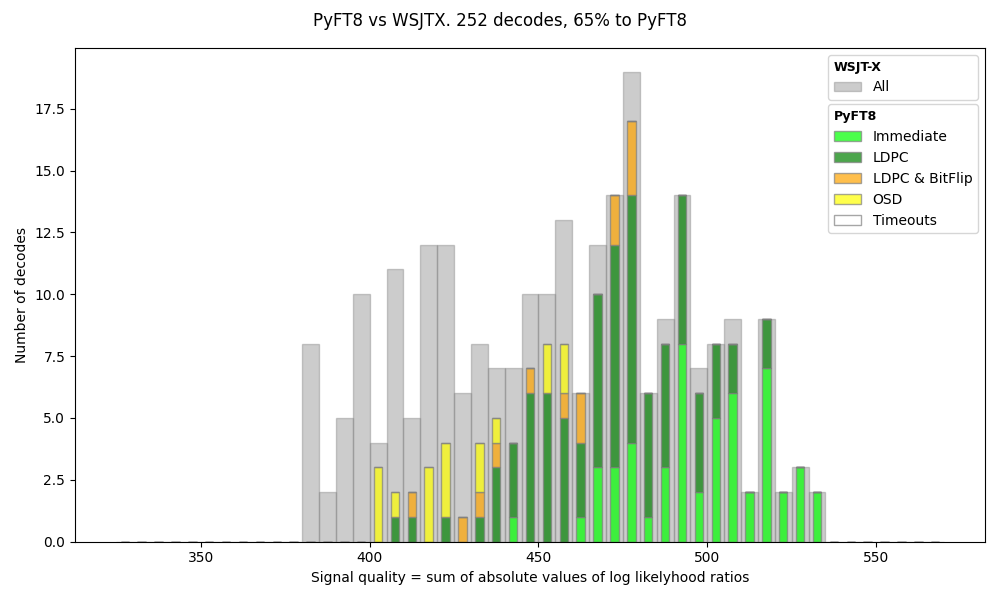
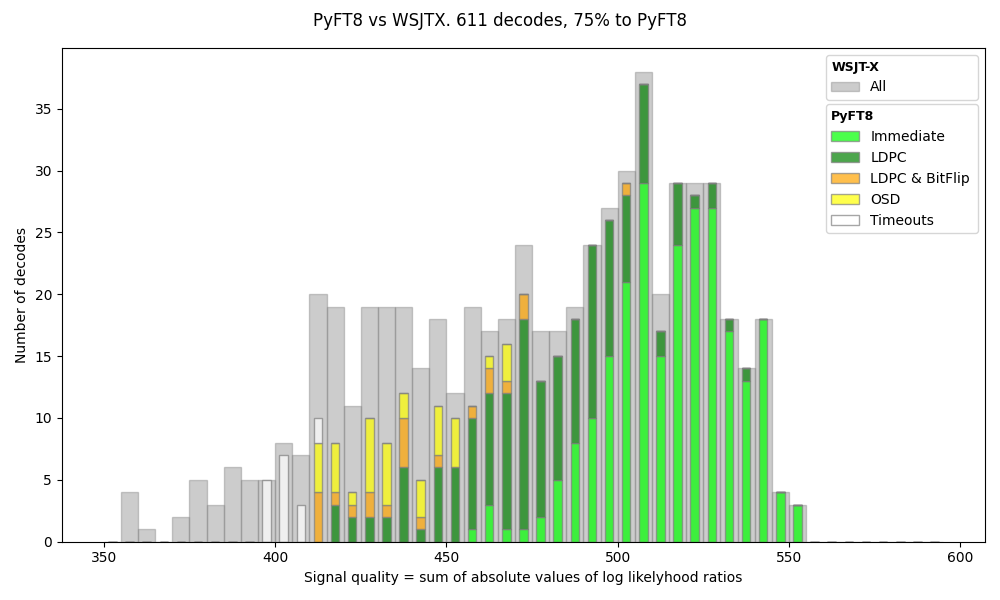
Performance snapshot

diff --git a/tests/test_compare_vs_wsjtx_plot.py b/tests/test_compare_vs_wsjtx_plot.py
@@ -7,7 +7,7 @@ with open(f"data/compare_wsjtx.csv", "r") as f:
 
 pycols = ['lime','green','orange','yellow','white']
 pylabs = ["Immediate","LDPC","LDPC & BitFlip","OSD","Timeouts"]
-bins = [350 + 25*b for b in range(50)]
+bins = [350 + 5*b for b in range(50)]
 
 py = [[],[],[],[],[]]
 ws = []
